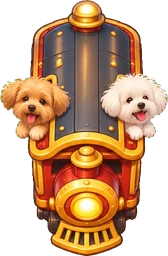
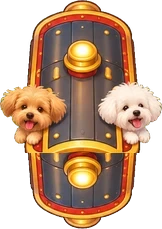
wanwan: bigger train (1 cell), rear-view sprite for upward movement
Claude-Session: https://claude.ai/code/session_01C8PtLDws9mEun2KRsPMwCE

diff --git a/lab/wanwan/index.html b/lab/wanwan/index.html
@@ -948,7 +948,7 @@ function drawTrain(p,th){
   ctx.save();if(th.glow){ctx.shadowColor=th.glow;ctx.shadowBlur=12}
   if(p.al!==undefined)ctx.globalAlpha=p.al;
   const sc=p.sc||1;
-  if(im){drawImg(im,p.x,p.y-S*.08,Math.min(S,56)*.95*sc,Math.min(S,56)*.95*sc);ctx.restore();return}
+  if(im){drawImg(im,p.x,p.y-S*.04,S*.98*sc,S*.98*sc);ctx.restore();return}
   ctx.translate(p.x,p.y);ctx.rotate(p.a);
   ctx.fillStyle=th.body;rr(-17,-9,34,18,5);ctx.fill();
   ctx.fillStyle=th.front;rr(2,-7,15,14,4);ctx.fill();

diff --git a/sw.js b/sw.js
@@ -1,5 +1,5 @@
 // オフライン対応（ページは最新を優先、画像などはキャッシュを優先）
-const V='gc-v134';
+const V='gc-v135';
 const CORE=['./','index.html','coins.js','backup.js','manifest.webmanifest','icons/icon-192.png',
  ...['reversi','shogi','wanko','gomoku','memory','escape','rings','peg','slide','hanoi'].map(g=>g+'/')];
 self.addEventListener('install',e=>{e.waitUntil(caches.open(V).then(c=>c.addAll(CORE)).then(()=>self.skipWaiting()))});
